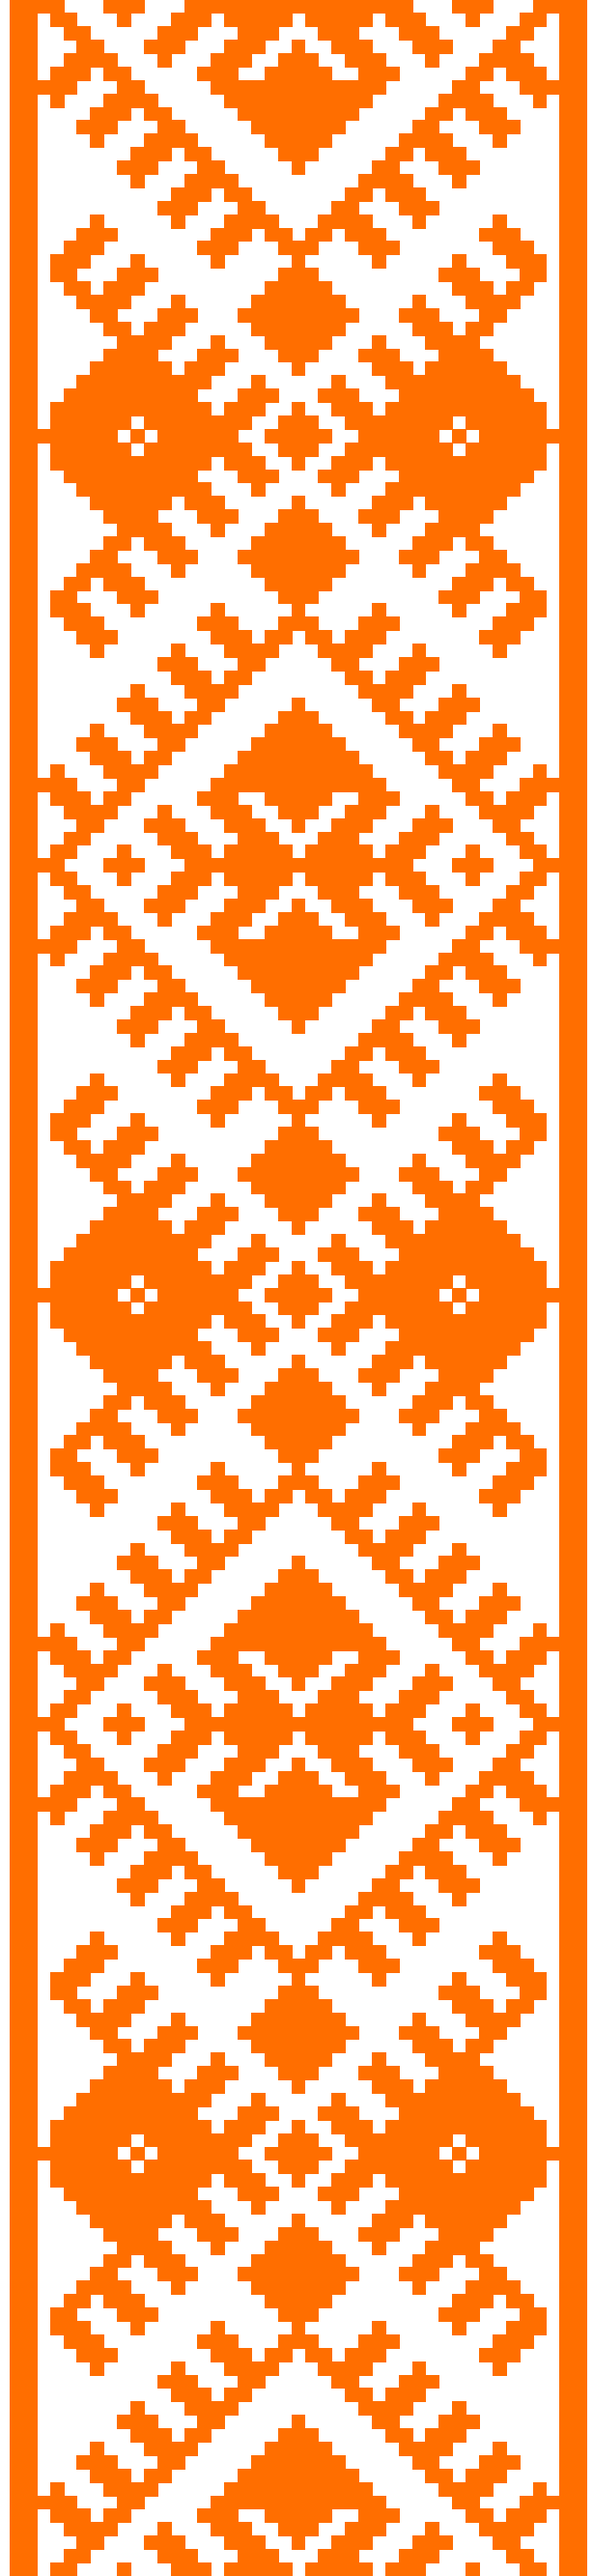
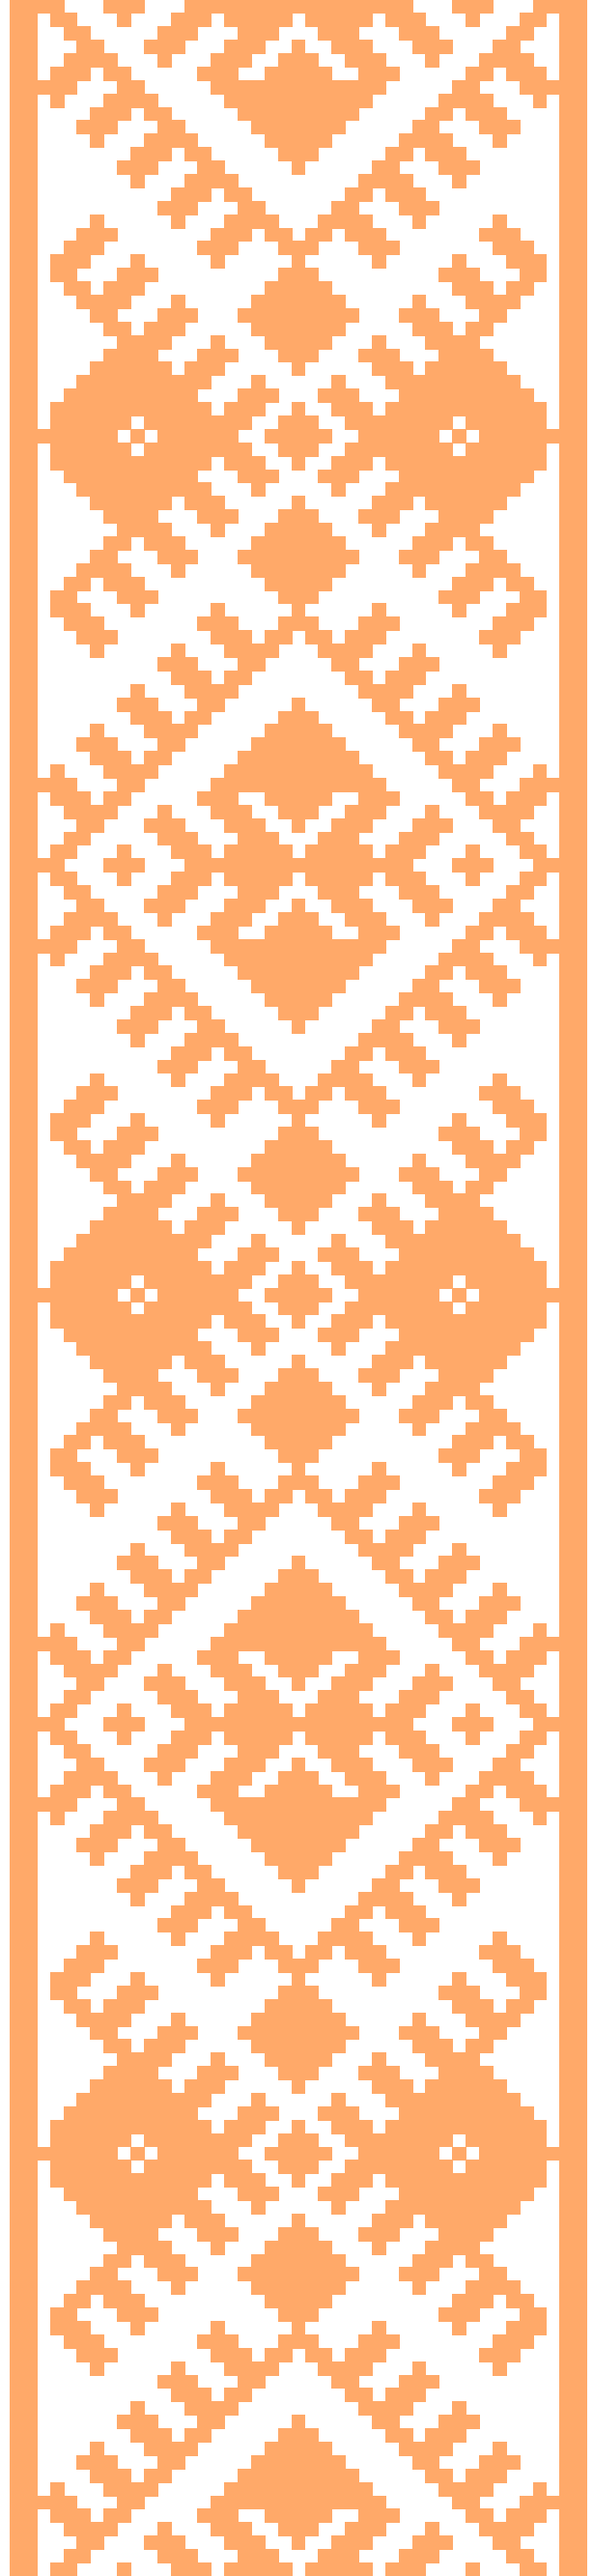
orange header

diff --git a/css/style.css b/css/style.css
@@ -123,7 +123,7 @@ a {
 	font-size: 14px;
 }
 .header .content .main-menu a  {
-	color: #ff6e00;
+	color: #f5a76c;
 	padding: 7px 10px;
 	display: block;
 	font-size: 14px;
@@ -153,7 +153,7 @@ a {
 	width: 0%;
 	content: '.';
 	color: transparent;
-	background: #ff6e00;
+	background: #f5a76c;
 	height: 1px;
 	opacity: 0;
 	-webkit-transition: all .3s ease-in-out;
@@ -175,7 +175,7 @@ a {
 	100% {
 		width: 100%;
 		height: 100%;
-		background: #ff6e00;
+		background: #f5a76c;
 	}
 }
 @-webkit-keyframes fillBack {
@@ -190,7 +190,7 @@ a {
 	100% {
 		width: 0%;
 		height: 1px;
-		background: #c0c0c0;
+		background: #f5a76c;
 	}
 }
 .header .content .main-menu a span {
@@ -199,7 +199,7 @@ a {
 	display: block;
 	margin-top: 5px;
 	font-family: Roboto;
-	color: #ff6e00;
+	color: #f5a76c;
 	-webkit-transition: all 1.2s;
 	-o-transition: all 1.2s;
 	transition: all 1.2s;
